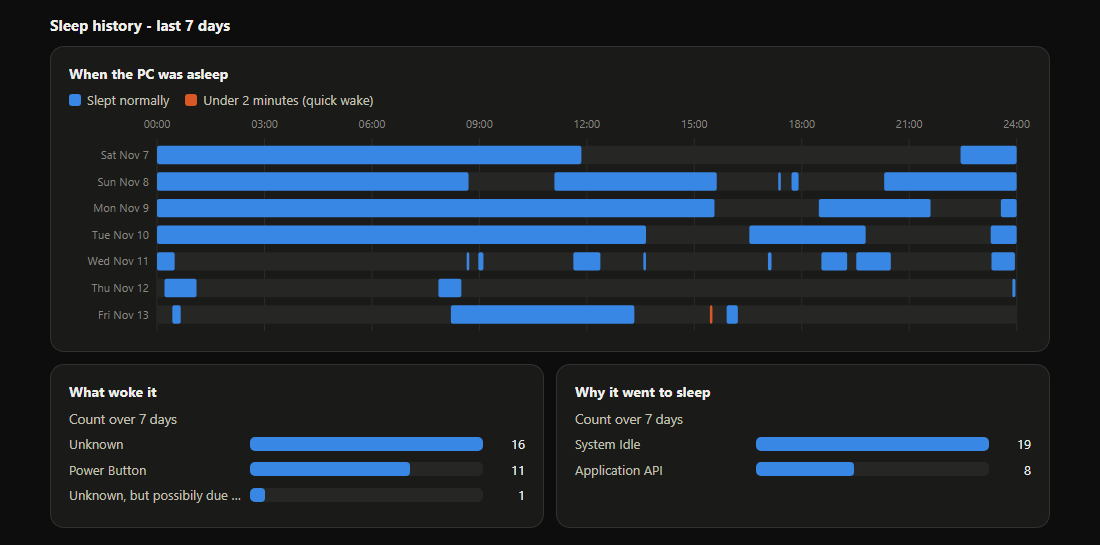
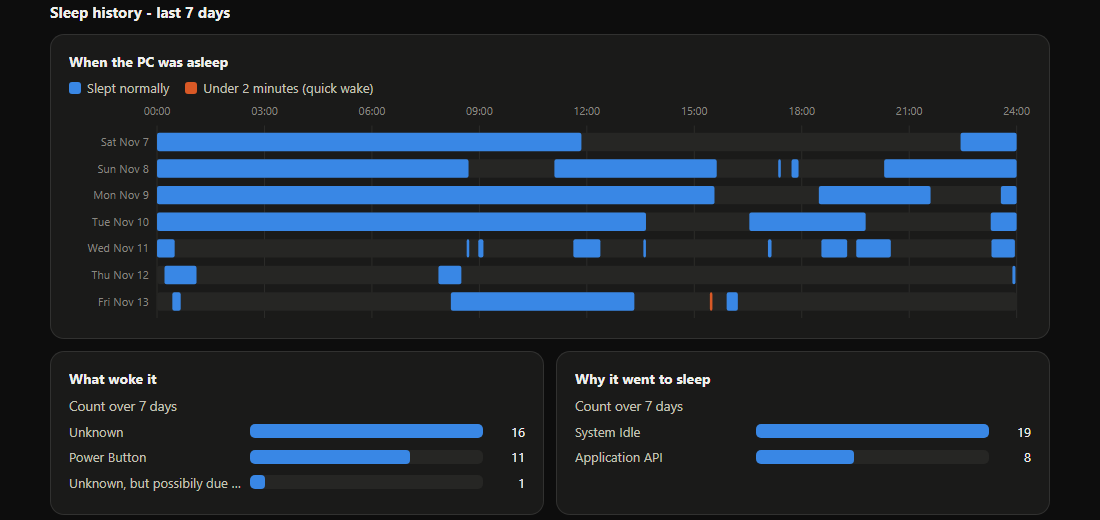
Admin-run screenshots, fix duplicate power-request finding
Replace screenshots with an Administrator run (names anonymised), add a
power-requests detail shot, and keep a request's description line together
with its [PROCESS] entry so one blocker is reported once.

diff --git a/README.md b/README.md
@@ -60,6 +60,11 @@ Prefer plain text you can read before running? Grab the repo and double-click
 
 ![Sleep history chart](docs/images/sleep-history.png)
 
+The **Details** sections open up for the receipts. Here, the power-requests table names the exact
+process that is holding sleep hostage:
+
+![Power requests detail](docs/images/power-requests.png)
+
 <details>
 <summary>Light mode</summary>
 
@@ -67,9 +72,9 @@ Prefer plain text you can read before running? Grab the repo and double-click
 
 </details>
 
-> 📸 *The screenshots are from a regular (non-admin) run on a desktop with classic S3 sleep, with the
-> computer name changed. Running as Administrator adds the "what's blocking sleep right now" and
-> wake-timer sections.*
+> 📸 *Screenshots are from an Administrator run on a desktop using classic S3 sleep. The computer
+> name, user name and the offending app's name are replaced with placeholders (`DESKTOP-DEMO`,
+> `ExampleApp`) so no real details are shown.*
 
 ---
 
